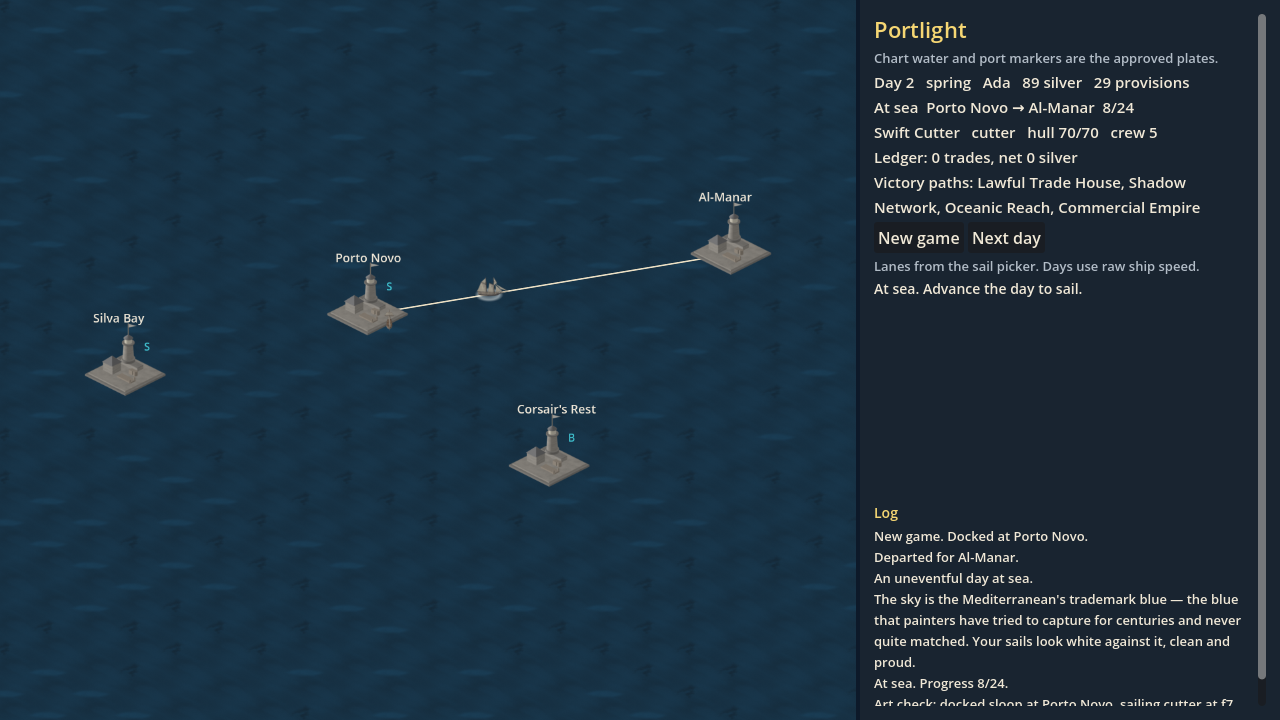
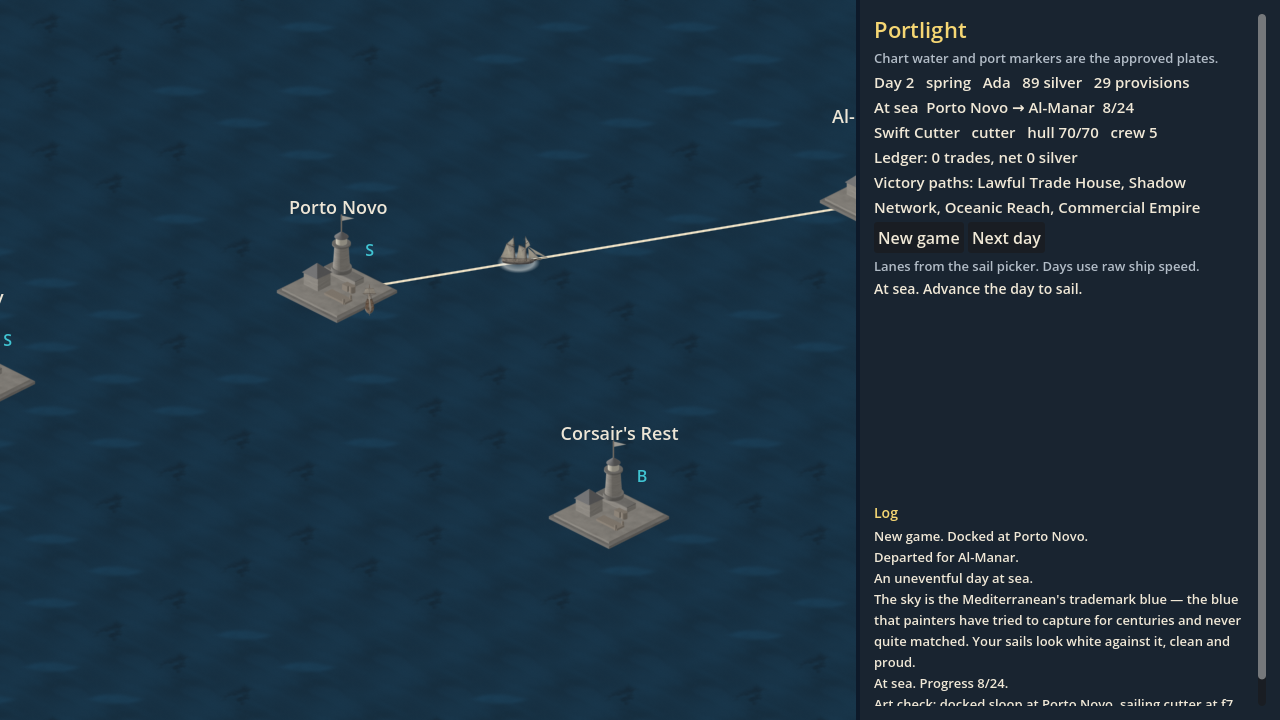
Draw chart ships and markers at nearest 1:1.
The chart SubViewport now uses nearest filtering, and the camera zoom
is 1.0 or 0.72 rather than a continuous fit. The Grain Road art frame
fits both plates at 1.0. --art writes /tmp unless PORTLIGHT_ART_DOCS
or --art-docs is set. chart-1280.png and chart-cutter-f7.png are
recaptured from this build.

diff --git a/crates/portlight-chart/src/view.rs b/crates/portlight-chart/src/view.rs
@@ -7,8 +7,8 @@ use crate::assets::{self, chart_water_id, ship_draw, Asset, PORT_MARKER};
 use crate::cover::{cells_covering, view_world_rect, WATER_COVER_PAD};
 use crate::project::{
     chart_to_screen_f, facing_from_chart_delta, follow_ship, frame_to_view, sprite_origin,
-    water_cell_bottom, Facing, Frame, ScreenRect, CELL_HEIGHT, CELL_WIDTH, DOCKED_OFFSET_X,
-    DOCKED_OFFSET_Y,
+    water_cell_bottom, Facing, Frame, ScreenRect, CELL_HEIGHT, CELL_WIDTH, CHART_ZOOM_FULL,
+    CHART_ZOOM_STEP, DOCKED_OFFSET_X, DOCKED_OFFSET_Y,
 };
 
 /// First-playable waters. Ports outside this region are drawn only when the
@@ -514,6 +514,87 @@ fn chart_diamond_center(u: i32, v: i32, anchor: (i32, i32)) -> (f32, f32) {
     )
 }
 
+/// Art-director frame. Zoom is 1.0 when the docked gallery ship and the
+/// sailing ship, including its wake, fit in the chart viewport. Otherwise
+/// the zoom is 0.72. The center stays on the chart focus when that still
+/// holds the plates.
+pub fn art_frame(chart: &ChartModel, view_w: f32, view_h: f32) -> Frame {
+    let mut bounds = plate_bounds(chart.ship.sprite_origin, chart.ship.asset_id);
+    if !chart.ship.docked {
+        bounds.union(plate_bounds(chart.ship.wake_origin, chart.ship.wake_id));
+    }
+    for extra in &chart.gallery {
+        bounds.union(plate_bounds(extra.sprite_origin, extra.asset_id));
+        if !extra.docked {
+            bounds.union(plate_bounds(extra.wake_origin, extra.wake_id));
+        }
+    }
+    let focus_center = (
+        (chart.focus.min_x + chart.focus.max_x) as f32 / 2.0,
+        (chart.focus.min_y + chart.focus.max_y) as f32 / 2.0,
+    );
+    let ship_center = bounds.center();
+    let zoom = if bounds.fits(focus_center, CHART_ZOOM_FULL, view_w, view_h)
+        || bounds.fits(ship_center, CHART_ZOOM_FULL, view_w, view_h)
+    {
+        CHART_ZOOM_FULL
+    } else {
+        CHART_ZOOM_STEP
+    };
+    let center = if bounds.fits(focus_center, zoom, view_w, view_h) {
+        focus_center
+    } else {
+        ship_center
+    };
+    Frame {
+        center_x: center.0.round(),
+        center_y: center.1.round(),
+        zoom,
+    }
+}
+
+fn plate_bounds(origin: (f32, f32), id: &str) -> PlateBounds {
+    let plate = assets::asset(id).unwrap_or_else(|| panic!("missing plate {id}"));
+    PlateBounds {
+        min_x: origin.0,
+        min_y: origin.1,
+        max_x: origin.0 + plate.canvas_w as f32,
+        max_y: origin.1 + plate.canvas_h as f32,
+    }
+}
+
+struct PlateBounds {
+    min_x: f32,
+    min_y: f32,
+    max_x: f32,
+    max_y: f32,
+}
+
+impl PlateBounds {
+    fn union(&mut self, other: PlateBounds) {
+        self.min_x = self.min_x.min(other.min_x);
+        self.min_y = self.min_y.min(other.min_y);
+        self.max_x = self.max_x.max(other.max_x);
+        self.max_y = self.max_y.max(other.max_y);
+    }
+
+    fn center(&self) -> (f32, f32) {
+        (
+            (self.min_x + self.max_x) / 2.0,
+            (self.min_y + self.max_y) / 2.0,
+        )
+    }
+
+    fn fits(&self, center: (f32, f32), zoom: f32, view_w: f32, view_h: f32) -> bool {
+        let half_w = view_w / zoom / 2.0;
+        let half_h = view_h / zoom / 2.0;
+        self.min_x >= center.0 - half_w
+            && self.max_x <= center.0 + half_w
+            && self.min_y >= center.1 - half_h
+            && self.max_y <= center.1 + half_h
+    }
+}
+
 fn chart_cell_f(x: f32, y: f32, anchor: (i32, i32)) -> (f32, f32) {
     let (cx, cy) = chart_diamond_center(0, 0, anchor);
     let d = (x - cx) / (CELL_WIDTH as f32 / 2.0);
@@ -929,5 +1010,39 @@ mod tests {
         assert_eq!(sailing.ship.asset_id, "ship_cutter_f7");
         assert_eq!(sailing.ship.wake_id, "ship_cutter_wake");
         assert_eq!(sailing.ship.class_name, "cutter");
+    }
+
+    #[test]
+    fn grain_road_f7_frame_is_zoom_one() {
+        let mut session = Session::new("Ada", "merchant", FIRST_PLAYABLE_SEED, None).unwrap();
+        session.buy_ship("swift_cutter").unwrap();
+        session.depart("al_manar").unwrap();
+        session.advance().unwrap();
+        let mut chart = project_chart(&session);
+        let port = session.world().port("porto_novo").unwrap();
+        chart
+            .gallery
+            .push(docked_sloop_marker(port.map_x, port.map_y));
+        // Chart area inside the 1280×720 window, beside the 420 px panel.
+        for (view_w, view_h) in [(856.0, 720.0), (CHART_VIEW_W, CHART_VIEW_H)] {
+            let frame = art_frame(&chart, view_w, view_h);
+            assert_eq!(frame.zoom, CHART_ZOOM_FULL, "{view_w}x{view_h}");
+            let half_w = view_w / frame.zoom / 2.0;
+            let half_h = view_h / frame.zoom / 2.0;
+            for (origin, id) in [
+                (chart.gallery[0].sprite_origin, chart.gallery[0].asset_id),
+                (chart.ship.sprite_origin, chart.ship.asset_id),
+                (chart.ship.wake_origin, chart.ship.wake_id),
+            ] {
+                let plate = crate::assets::asset(id).unwrap();
+                assert!(
+                    origin.0 >= frame.center_x - half_w
+                        && origin.0 + plate.canvas_w as f32 <= frame.center_x + half_w
+                        && origin.1 >= frame.center_y - half_h
+                        && origin.1 + plate.canvas_h as f32 <= frame.center_y + half_h,
+                    "{id} outside the {view_w}x{view_h} frame"
+                );
+            }
+        }
     }
 }

diff --git a/crates/portlight-godot/src/game.rs b/crates/portlight-godot/src/game.rs
@@ -15,9 +15,11 @@
 //! and provisions call `hire_crew` and `provision`; a `SimError` is shown
 //! with its `Display`.
 
+use godot::classes::canvas_item::TextureFilter;
 use godot::classes::control::{LayoutPreset, SizeFlags};
 use godot::classes::scroll_container::ScrollMode;
 use godot::classes::text_server::{AutowrapMode, OverrunBehavior};
+use godot::classes::viewport::DefaultCanvasItemTextureFilter;
 use godot::classes::{
     Button, Control, HBoxContainer, IControl, Label, Node, Os, PanelContainer, ScrollContainer,
     StyleBoxFlat, SubViewport, SubViewportContainer, VBoxContainer,
@@ -26,9 +28,8 @@ use godot::global::Error;
 use godot::obj::InstanceId;
 use godot::prelude::*;
 use portlight_chart::{
-    docked_sloop_marker, frame_to_view, lane_inspect, press_port, project_chart, ChartModel,
-    Facing, PortPress, CHART_VIEW_H, CHART_VIEW_W, FIRST_PLAYABLE_CAPTAIN, FIRST_PLAYABLE_NAME,
-    FIRST_PLAYABLE_SEED,
+    art_frame, docked_sloop_marker, lane_inspect, press_port, project_chart, ChartModel, Facing,
+    PortPress, FIRST_PLAYABLE_CAPTAIN, FIRST_PLAYABLE_NAME, FIRST_PLAYABLE_SEED,
 };
 use portlight_sim::economy::TradeReceipt;
 use portlight_sim::model::VoyageStatus;
@@ -243,15 +244,18 @@ impl PortlightGame {
         row.set_anchors_and_offsets_preset(LayoutPreset::FULL_RECT);
 
         let mut view_host = SubViewportContainer::new_alloc();
-        // The viewport stays CHART_VIEW_* and stretches into the space left
-        // beside the panel, so 1280 does not clip the Sail column.
+        // Stretch resizes this viewport to the control, so the chart is 1:1
+        // with the pixels beside the panel. The project Nearest setting does
+        // not apply inside a SubViewport; Linear is the viewport default.
         view_host.set_custom_minimum_size(Vector2::new(chart_host_width(), WINDOW_H));
         view_host.set_h_size_flags(SizeFlags::EXPAND_FILL);
         view_host.set_v_size_flags(SizeFlags::EXPAND_FILL);
         view_host.set_stretch(true);
+        view_host.set_texture_filter(TextureFilter::NEAREST);
         let mut viewport = SubViewport::new_alloc();
-        viewport.set_size(Vector2i::new(CHART_VIEW_W as i32, CHART_VIEW_H as i32));
+        viewport.set_size(Vector2i::new(chart_host_width() as i32, WINDOW_H as i32));
         viewport.set_disable_3d(true);
+        viewport.set_default_canvas_item_texture_filter(DefaultCanvasItemTextureFilter::NEAREST);
         let mut canvas = ChartCanvas::new_alloc();
         let game_for_chart = self.instance_id();
         connect_port_pressed(&mut canvas, move |port_id: GString| {
@@ -1201,9 +1205,9 @@ impl PortlightGame {
                     .gallery
                     .push(docked_sloop_marker(port.map_x, port.map_y));
             }
-            // Keep the Mediterranean in frame so the docked ship and the
-            // sailing ship are both on screen. Play still follows the ship.
-            chart.frame = frame_to_view(chart.focus, CHART_VIEW_W, CHART_VIEW_H);
+            // 1.0 when both plates fit in the chart area of the 1280×720
+            // window, otherwise 0.72. Play still follows the ship.
+            chart.frame = art_frame(&chart, chart_host_width(), WINDOW_H);
         }
         Some(chart)
     }
@@ -1477,9 +1481,13 @@ fn victory_line(session: &Session) -> String {
     format!("Victory paths: {}", names.join(", "))
 }
 
-/// Godot changes into the project directory, so a bare relative path misses
-/// `docs/screenshots/`. The file name is `chart-cutter-f7.png`.
+/// `--art` writes `/tmp/chart-cutter-f7.png`. `PORTLIGHT_ART_DOCS` or
+/// `--art-docs` writes `docs/screenshots/chart-cutter-f7.png`. Godot changes
+/// into the project directory, so that docs path is taken from the repo root.
 fn art_shot_path() -> String {
+    if !(flag_set("PORTLIGHT_ART_DOCS") || user_arg("--art-docs")) {
+        return "/tmp/chart-cutter-f7.png".to_string();
+    }
     let cwd = std::env::current_dir().unwrap_or_else(|_| std::path::PathBuf::from("."));
     let root = if cwd.file_name().and_then(|name| name.to_str()) == Some("godot") {
         cwd.parent()

diff --git a/crates/portlight-chart/src/project.rs b/crates/portlight-chart/src/project.rs
@@ -250,8 +250,10 @@ pub fn chart_bounds() -> ScreenRect {
     rect
 }
 
-/// Camera frame: center of [`ScreenRect`] and a uniform zoom that fits it
-/// in a viewport. Zoom is clamped so a single port does not fill the window.
+/// Camera frame: center of [`ScreenRect`] and a gated zoom.
+///
+/// Zoom is exactly [`CHART_ZOOM_FULL`] when `rect` fits in the viewport, and
+/// exactly [`CHART_ZOOM_STEP`] otherwise. It is not a continuous fit.
 #[derive(Debug, Clone, Copy, PartialEq)]
 pub struct Frame {
     pub center_x: f32,
@@ -259,13 +261,22 @@ pub struct Frame {
     pub zoom: f32,
 }
 
+/// Preferred chart zoom. Plates are 1:1 with the viewport at this step.
+pub const CHART_ZOOM_FULL: f32 = 1.0;
+/// The only other chart zoom. Used when the framed content does not fit at 1.0.
+pub const CHART_ZOOM_STEP: f32 = 0.72;
+
 pub fn frame_to_view(rect: ScreenRect, view_w: f32, view_h: f32) -> Frame {
     let span_w = (rect.width().max(1)) as f32;
     let span_h = (rect.height().max(1)) as f32;
-    let zoom = (view_w / span_w).min(view_h / span_h).clamp(0.2, 2.0);
+    let zoom = if span_w <= view_w && span_h <= view_h {
+        CHART_ZOOM_FULL
+    } else {
+        CHART_ZOOM_STEP
+    };
     Frame {
-        center_x: (rect.min_x + rect.max_x) as f32 / 2.0,
-        center_y: (rect.min_y + rect.max_y) as f32 / 2.0,
+        center_x: ((rect.min_x + rect.max_x) as f32 / 2.0).round(),
+        center_y: ((rect.min_y + rect.max_y) as f32 / 2.0).round(),
         zoom,
     }
 }
@@ -407,7 +418,7 @@ mod tests {
             max_y: 300,
         };
         let frame = frame_to_view(rect, 900.0, 720.0);
-        assert!((frame.zoom - 1.0).abs() < 1e-4);
+        assert_eq!(frame.zoom, CHART_ZOOM_FULL);
         assert!((frame.center_x - 450.0).abs() < 1e-4);
         assert!((frame.center_y - 150.0).abs() < 1e-4);
     }
@@ -424,5 +435,20 @@ mod tests {
         assert!(frame.center_x < bounds.max_x as f32);
         assert!(frame.center_y < bounds.max_y as f32);
         assert!((frame.zoom - 1.0).abs() < 1e-6);
+    }
+
+    #[test]
+    fn zoom_is_one_or_point_seven_two() {
+        let wide = ScreenRect {
+            min_x: 0,
+            min_y: 0,
+            max_x: 1345,
+            max_y: 676,
+        };
+        let frame = frame_to_view(wide, 900.0, 720.0);
+        assert_eq!(frame.zoom, CHART_ZOOM_STEP);
+        let fitted = (900.0_f32 / 1345.0).min(720.0 / 676.0);
+        assert!((fitted - 0.669).abs() < 0.01);
+        assert_ne!(frame.zoom, fitted);
     }
 }

diff --git a/crates/portlight-godot/src/chart_canvas.rs b/crates/portlight-godot/src/chart_canvas.rs
@@ -111,6 +111,7 @@ impl INode2D for ChartCanvas {
                 &textures,
                 tile.asset_id,
                 Vector2::new(tile.origin.0, tile.origin.1),
+                false,
             );
         }
         if let Some(leg) = &model.leg {
@@ -254,7 +255,12 @@ enum Sortable {
 impl ChartCanvas {
     pub fn show(&mut self, model: ChartModel, snap: bool) {
         if let Some(mut camera) = self.camera.clone() {
-            camera.set_position(Vector2::new(model.frame.center_x, model.frame.center_y));
+            // Integer camera pixels so a zoom of 1.0 lands plate texels on
+            // framebuffer pixels.
+            camera.set_position(Vector2::new(
+                model.frame.center_x.round(),
+                model.frame.center_y.round(),
+            ));
             camera.set_zoom(Vector2::new(model.frame.zoom, model.frame.zoom));
         }
         debug_assert_eq!(model.ship.footprint, SHIP_FOOTPRINT_CELLS);
@@ -360,6 +366,7 @@ fn draw_port(
         textures,
         port.marker_id,
         Vector2::new(port.sprite_origin.0, port.sprite_origin.1),
+        true,
     );
 }
 
@@ -376,6 +383,7 @@ fn draw_ship(
             textures,
             ship.wake_id,
             Vector2::new(ship.wake_origin.0, ship.wake_origin.1) + delta,
+            true,
         );
     }
     draw_sprite(
@@ -383,6 +391,7 @@ fn draw_ship(
         textures,
         ship.asset_id,
         Vector2::new(ship.sprite_origin.0, ship.sprite_origin.1) + delta,
+        true,
     );
 }
 
@@ -419,9 +428,15 @@ fn draw_sprite(
     textures: &HashMap<String, Gd<Texture2D>>,
     id: &str,
     at: Vector2,
+    snap: bool,
 ) {
     let Some(texture) = textures.get(id) else {
         return;
+    };
+    let at = if snap {
+        Vector2::new(at.x.round(), at.y.round())
+    } else {
+        at
     };
     canvas.draw_texture(texture, at);
 }

diff --git a/crates/portlight-chart/src/lib.rs b/crates/portlight-chart/src/lib.rs
@@ -21,13 +21,13 @@ pub use placeholder::write_asset_files;
 pub use project::{
     chart_to_screen, chart_to_screen_f, chart_to_uv, facing_from_chart_delta, facing_from_uv,
     frame_to_view, grid_to_screen, grid_to_screen_f, sprite_origin, uv_to_chart, uv_to_screen,
-    Facing, Frame, ScreenRect, CELL_HEIGHT, CELL_WIDTH, DOCKED_OFFSET_X, DOCKED_OFFSET_Y,
-    HARBOUR_CELL_H, HARBOUR_CELL_W, WATER_DATUM_Y,
+    Facing, Frame, ScreenRect, CELL_HEIGHT, CELL_WIDTH, CHART_ZOOM_FULL, CHART_ZOOM_STEP,
+    DOCKED_OFFSET_X, DOCKED_OFFSET_Y, HARBOUR_CELL_H, HARBOUR_CELL_W, WATER_DATUM_Y,
 };
 pub use seam::{harbour_seam, seam_camera_center, seam_interior_vertex};
 pub use view::{
-    docked_sloop_marker, hover_at, lane_inspect, press_port, project_chart, ActiveLeg, ChartLane,
-    ChartModel, ChartPort, PortPress, Rgba, ShipMarker, WaterTile, CHART_VIEW_H, CHART_VIEW_W,
-    DAY_TWEEN_SECS, FIRST_PLAYABLE_CAPTAIN, FIRST_PLAYABLE_NAME, FIRST_PLAYABLE_SEED,
+    art_frame, docked_sloop_marker, hover_at, lane_inspect, press_port, project_chart, ActiveLeg,
+    ChartLane, ChartModel, ChartPort, PortPress, Rgba, ShipMarker, WaterTile, CHART_VIEW_H,
+    CHART_VIEW_W, DAY_TWEEN_SECS, FIRST_PLAYABLE_CAPTAIN, FIRST_PLAYABLE_NAME, FIRST_PLAYABLE_SEED,
     MEDITERRANEAN, SHIP_FOOTPRINT_CELLS,
 };

diff --git a/README.md b/README.md
@@ -62,7 +62,7 @@ xvfb-run -a -s "-screen 0 1280x720x24" \
   godot --display-driver x11 --rendering-driver opengl3 --path godot -- --smoke
 ```
 
-The art-director frame (docked sloop at Porto Novo, Swift Cutter under sail at f7, `ship_cutter_wake`) writes `docs/screenshots/chart-cutter-f7.png`. The harbour seam plate:
+The art-director frame (docked sloop at Porto Novo, Swift Cutter under sail at f7, `ship_cutter_wake`) writes `/tmp/chart-cutter-f7.png`. `PORTLIGHT_ART_DOCS=1` writes `docs/screenshots/chart-cutter-f7.png`. The harbour seam plate:
 
 ```
 xvfb-run -a -s "-screen 0 1280x720x24" \
